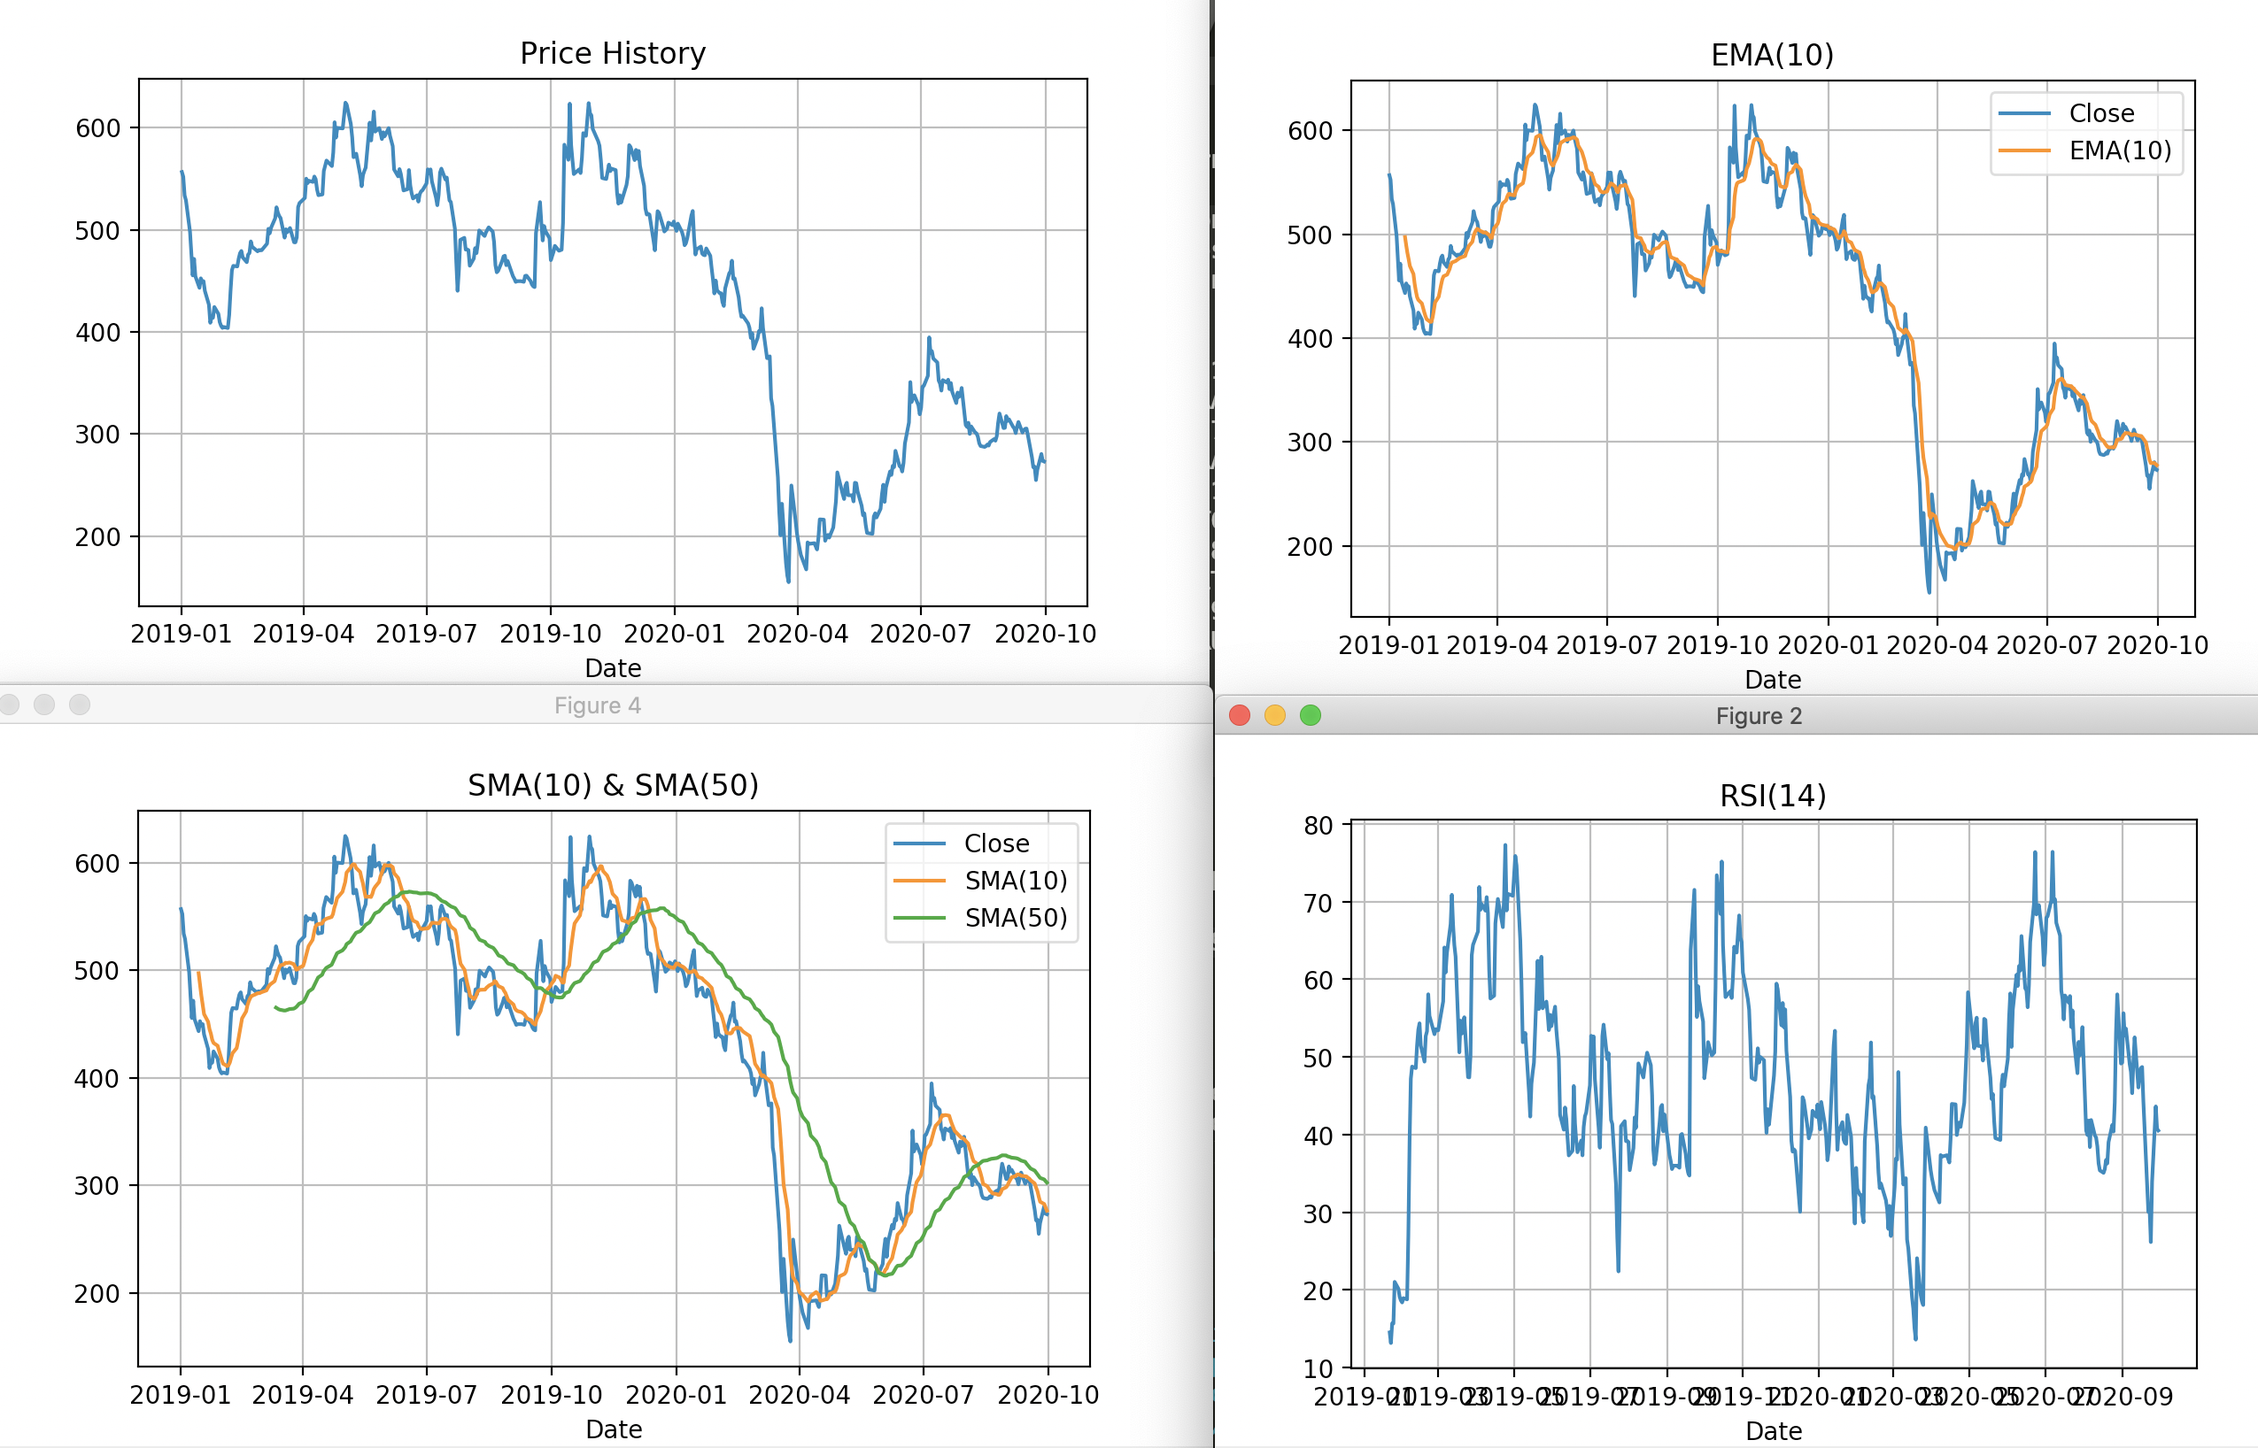
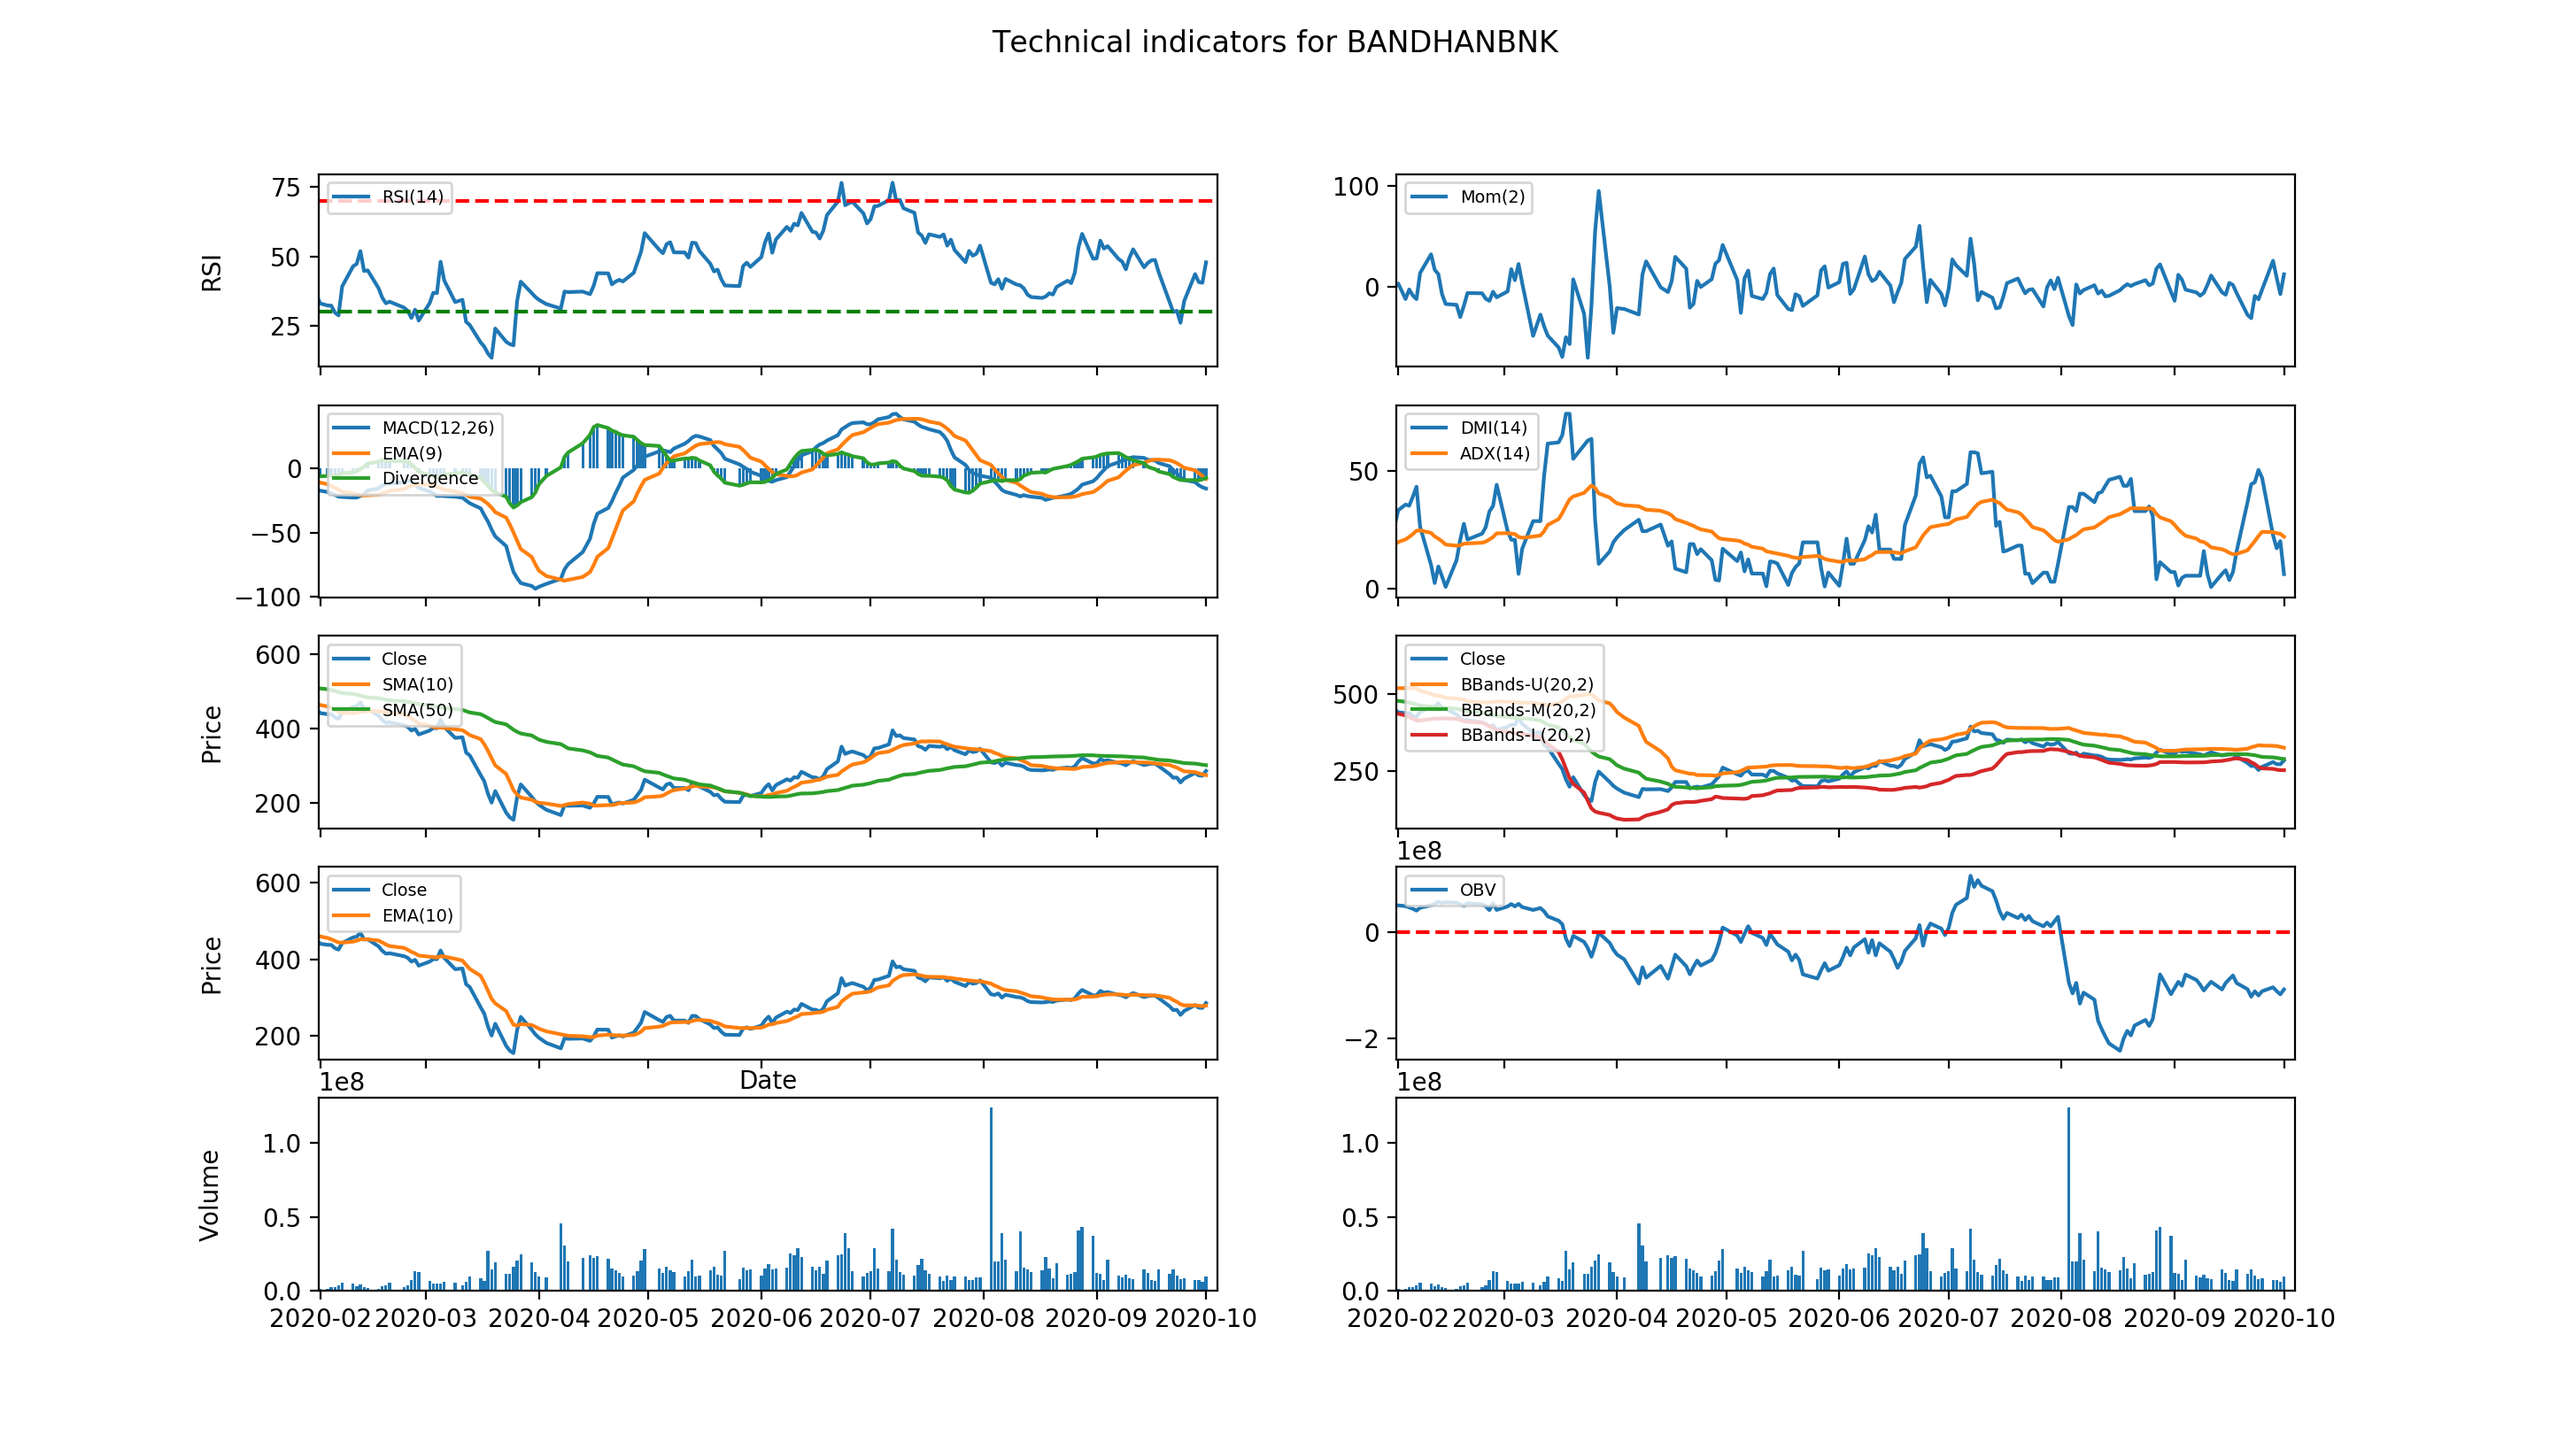
Updated for better TI plots in one shot

diff --git a/nseta/plots/plots.py b/nseta/plots/plots.py
@@ -45,41 +45,48 @@ def plot_candlestick(df, symbol_name="", plot_title=""):
 
 def plot_technical_indicators(df):
 	# plot with various axes scales
-	plt.figure(1)
-	# plt.subplot(221)
-	plot_history(df,'Close', 'Turnover')
+	fig, axs = plt.subplots(5,2, sharex=True)
+	axs[0,0].plot(get_rsi_df(df))
+	axs[0,0].set_ylabel('RSI')
+	axs[0,0].axhline(y=30, linestyle='--', color='g', label='30')
+	axs[0,0].axhline(y=70, linestyle='--', color='r', label='70')
+	axs[0,0].legend(['RSI(14)'], loc='upper left', fontsize='x-small')
 
-	plt.figure(2)	
-	# plt.subplot(222)
-	plot_rsi(df)
+	axs[1,0].plot(get_macd_df(df))
+	axs[1,0].bar(df['dt'], df['macdhist'])
+	axs[1,0].legend(['MACD(12,26)', 'EMA(9)', 'Divergence'], loc='upper left', fontsize='x-small')
 
-	plt.figure(3)
-	# plt.subplot(223)
-	plot_sma(df)
+	axs[2,0].plot(get_sma_df(df))
+	axs[2,0].set_ylabel('Price')
+	axs[2,0].legend(['Close','SMA(10)', 'SMA(50)'], loc='upper left', fontsize='x-small')
+
+	axs[3,0].plot(get_ema_df(df))
+	axs[3,0].set_ylabel('Price')
+	axs[3,0].set_xlabel('Date')
+	axs[3,0].legend(['Close','EMA(10)'], loc='upper left', fontsize='x-small')
+
+	axs[4,0].bar(df['dt'],df['Volume'])
+	axs[4,0].set_ylabel('Volume')
+
+	axs[0,1].plot(get_mom_df(df))
+	axs[0,1].legend(['Mom(2)'], loc='upper left', fontsize='x-small')
+
+	axs[1,1].plot(get_dmi_df(df))
+	axs[1,1].plot(get_adx_df(df))
+	axs[1,1].legend(['DMI(14)', 'ADX(14)'], loc='upper left', fontsize='x-small')
+
+	axs[2,1].plot(get_bbands_df(df))
+	axs[2,1].legend(['Close','BBands-U(20,2)','BBands-M(20,2)','BBands-L(20,2)'], loc='upper left', fontsize='x-small')
 	
-	plt.figure(4)
-	# plt.subplot(224)
-	plot_ema(df)
+	axs[3,1].plot(get_obv_df(df))
+	axs[3,1].axhline(linestyle='--', color='r')
+	axs[3,1].legend(['OBV'], loc='upper left', fontsize='x-small')
 
-	# plt.figure()
-	# plt.subplot(225)
-	# plot_adx(df)
+	axs[4,1].bar(df['dt'],df['Volume'])
 
-	# plt.figure()
-	# plt.subplot(226)
-	# plot_bbands(df)
+	fig.suptitle('Technical indicators for ' + df['Symbol'][0])
+	fig.align_labels()
 
-	# plt.figure()
-	# plt.subplot(227)
-	# plot_sstochastic(df)
-
-	# plt.figure()
-	# plt.subplot(228)
-	# plot_fstochastic(df)
-
-	# Adjust the subplot layout
-	# plt.subplots_adjust(top=0.92, bottom=0.08, left=0.10, right=0.95, hspace=0.25,
-	#                     wspace=0.5)
 	return plt
 
 def plot_history(df, plot_points=['Close'], secondary_y="Turnover"):
@@ -88,6 +95,10 @@ def plot_history(df, plot_points=['Close'], secondary_y="Turnover"):
 	plt.grid(True)
 	return plt
 
+def get_rsi_df(df):
+	df['RSI'] = ta.RSI(df['Close'],14)
+	return df['RSI']
+
 '''
 The relative strength index is a technical indicator used in the 
 analysis of financial markets. It is intended to chart the current 
@@ -95,44 +106,59 @@ and historical strength or weakness of a stock or market based on
 the closing prices of a recent trading period.
 '''
 def plot_rsi(df):
-	df['RSI'] = ta.RSI(df['Close'],14)
-	df['RSI'].plot()
+	get_rsi_df(df).plot()
 	plt.title('RSI(14)')
 	plt.grid(True)
 	return plt
 
+def get_mom_df(df):
+	df['MOM'] = ta.MOM(df['Close'],2)
+	return df['MOM']
+
 def plot_mom(df):
-	df['MOM'] = ta.MOM(df['Close'],10)
-	df['MOM'].plot()
+	get_mom_df(df).plot()
 	plt.title('Momentum - MOM(10)')
 	plt.grid(True)
 	return plt
 
-def plot_dmi(df):
+def get_dmi_df(df):
 	df['DMI'] = ta.DX(df['High'],df['Low'],df['Close'],timeperiod=14)
-	df['DMI'].plot()
+	return df['DMI']
+
+def plot_dmi(df):
+	get_dmi_df(df).plot()
 	plt.title('Directional Movement Index - DMI(14)')
 	plt.grid(True)
 	return plt
 
-def plot_macd(df):
+def get_macd_df(df):
 	df['macd'], df['macdsignal'], df['macdhist'] = ta.MACDEXT(df['Close'], fastperiod=12, fastmatype=0, slowperiod=26, slowmatype=0, signalperiod=9, signalmatype=0)
-	df[['macd','macdsignal', 'macdhist']].plot()
+	return df[['macd','macdsignal', 'macdhist']]
+
+def plot_macd(df):
+	get_macd_df(df).plot()
 	plt.title('MACD(12, 26)')
 	plt.grid(True)
 	return plt
+
+def get_sma_df(df):
+	df['SMA(10)'] = ta.SMA(df['Close'],10)
+	df['SMA(50)'] = ta.SMA(df['Close'],50)
+	return df[['Close','SMA(10)', 'SMA(50)']]
 
 '''
 Simple moving average (SMA) calculates the average of a selected 
 range of closing prices, by the number of periods in that range.
 '''
 def plot_sma(df):
-	df['SMA(10)'] = ta.SMA(df['Close'],10)
-	df['SMA(50)'] = ta.SMA(df['Close'],50)
-	df[['Close','SMA(10)', 'SMA(50)']].plot()
+	get_sma_df(df).plot()
 	plt.title('SMA(10) & SMA(50)')
 	plt.grid(True)
 	return plt
+
+def get_ema_df(df):
+	df['EMA(10)'] = ta.EMA(df['Close'], timeperiod = 10)
+	return df[['Close','EMA(10)']]
 
 '''
 (EMA) is a type of moving average (MA) that places a greater weight 
@@ -140,11 +166,14 @@ and significance on the most recent data points. That is it is
 generally known as Exponentially Weighted Moving Average.
 '''
 def plot_ema(df):
-	df['EMA(10)'] = ta.EMA(df['Close'], timeperiod = 10)
-	df[['Close','EMA(10)']].plot()
+	get_ema_df(df).plot()
 	plt.title('EMA(10)')
 	plt.grid(True)
 	return plt
+
+def get_adx_df(df):
+	df['ADX'] = ta.ADX(df['High'],df['Low'], df['Close'], timeperiod=14)
+	return df[['ADX']]
 
 '''
 Average Directional Movement Index(Momentum Indicator) - ADX can be 
@@ -152,11 +181,14 @@ used to help measure the overall strength of a trend. The ADX
 indicator is an average of expanding price range values.
 '''
 def plot_adx(df):
-	df['ADX'] = ta.ADX(df['High'],df['Low'], df['Close'], timeperiod=20)
-	df[['ADX']].plot()
-	plt.title('ADX(20)')
+	get_adx_df(df).plot()
+	plt.title('ADX(14)')
 	plt.grid(True)
 	return plt
+
+def get_bbands_df(df):
+	df['BBands-U'], df['BBands-M'], df['BBands-L'] = ta.BBANDS(df['Close'], timeperiod =20)
+	return df[['Close','BBands-U','BBands-M','BBands-L']]
 
 '''
 Bollinger Bands are a type of statistical chart characterizing the 
@@ -164,9 +196,18 @@ prices and volatility over time of a financial instrument or commodity,
 using a formulaic method propounded by John Bollinger.
 '''
 def plot_bbands(df):
-	df['BBands-U'], df['BBands-M'], df['BBands-L'] = ta.BBANDS(df['Close'], timeperiod =20)
-	df[['Close','BBands-U','BBands-M','BBands-L']].plot()
+	get_bbands_df(df).plot()
 	plt.title('Bollinger Bands(20)')
+	plt.grid(True)
+	return plt
+
+def get_obv_df(df):
+	df['OBV'] = ta.OBV(df['Close'], df['Volume'])
+	return df[['OBV']]
+
+def plot_obv(df):
+	get_obv_df(df).plot()
+	plt.title('OBV')
 	plt.grid(True)
 	return plt
 

diff --git a/nseta/cli/plotscli.py b/nseta/cli/plotscli.py
@@ -33,6 +33,7 @@ def plot_ta(symbol, start, end, plot_type="ALL"):
 	ed = datetime.strptime(end, "%Y-%m-%d").date()
 
 	df = get_history(symbol, sd, ed)
+	df['dt'] = df['Date']
 	df.set_index('Date', inplace=True)
 	plot_type = plot_type.upper()
 	if plot_type in PLOT_KEY_TO_FUNC:
